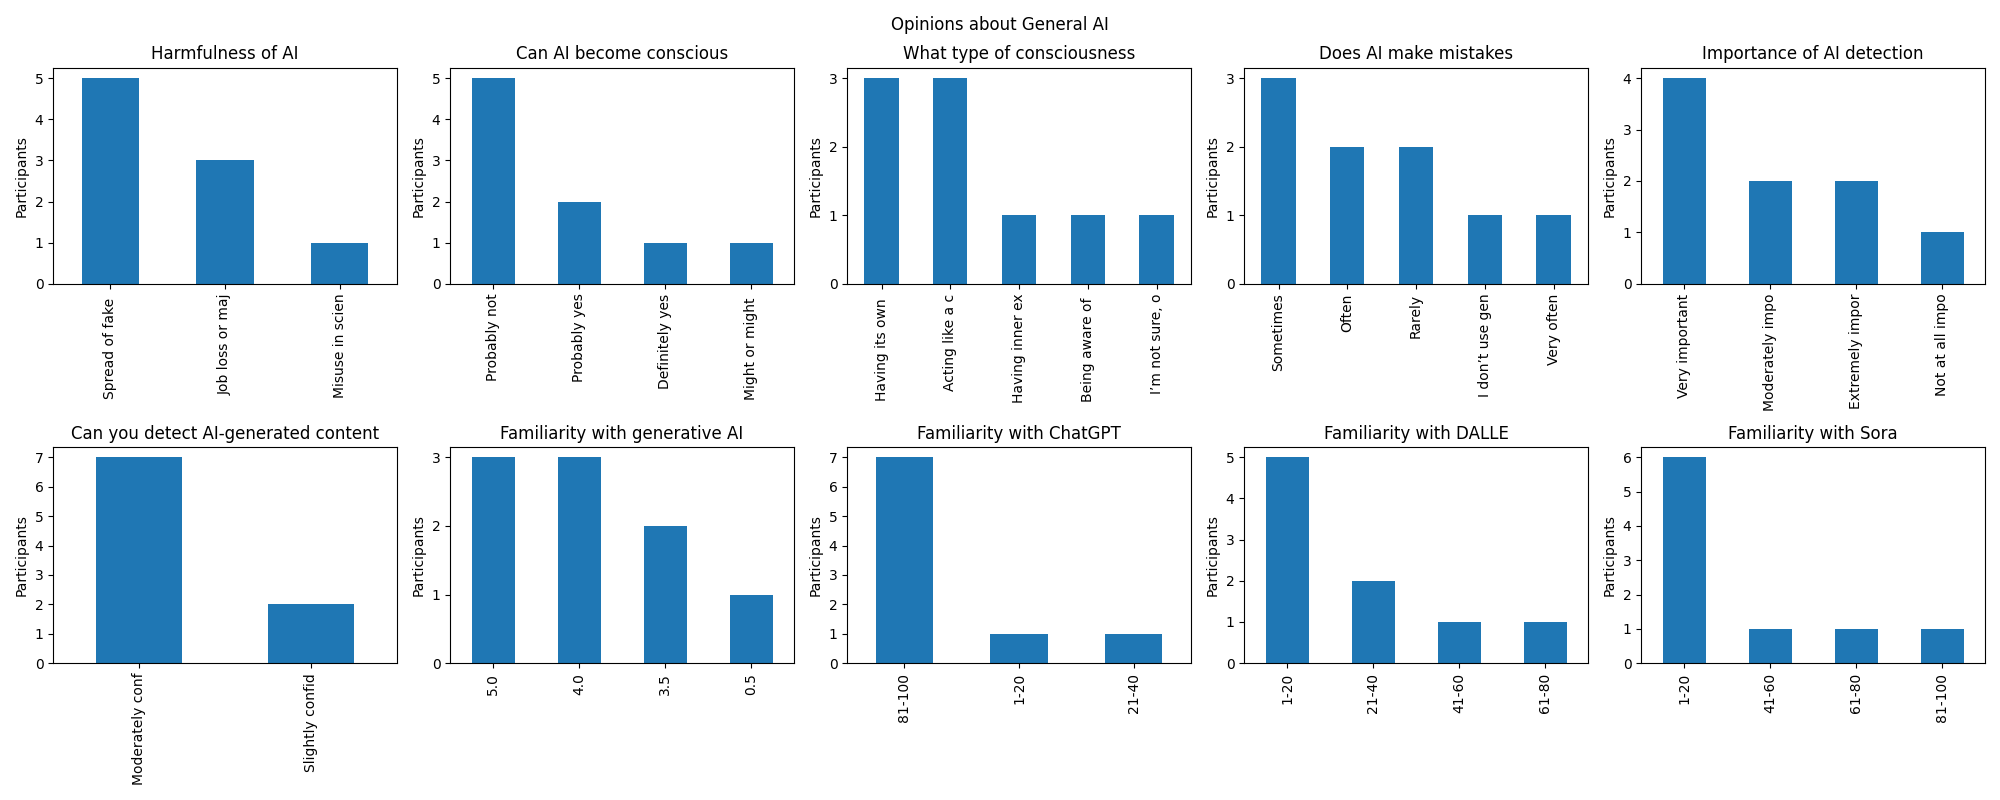
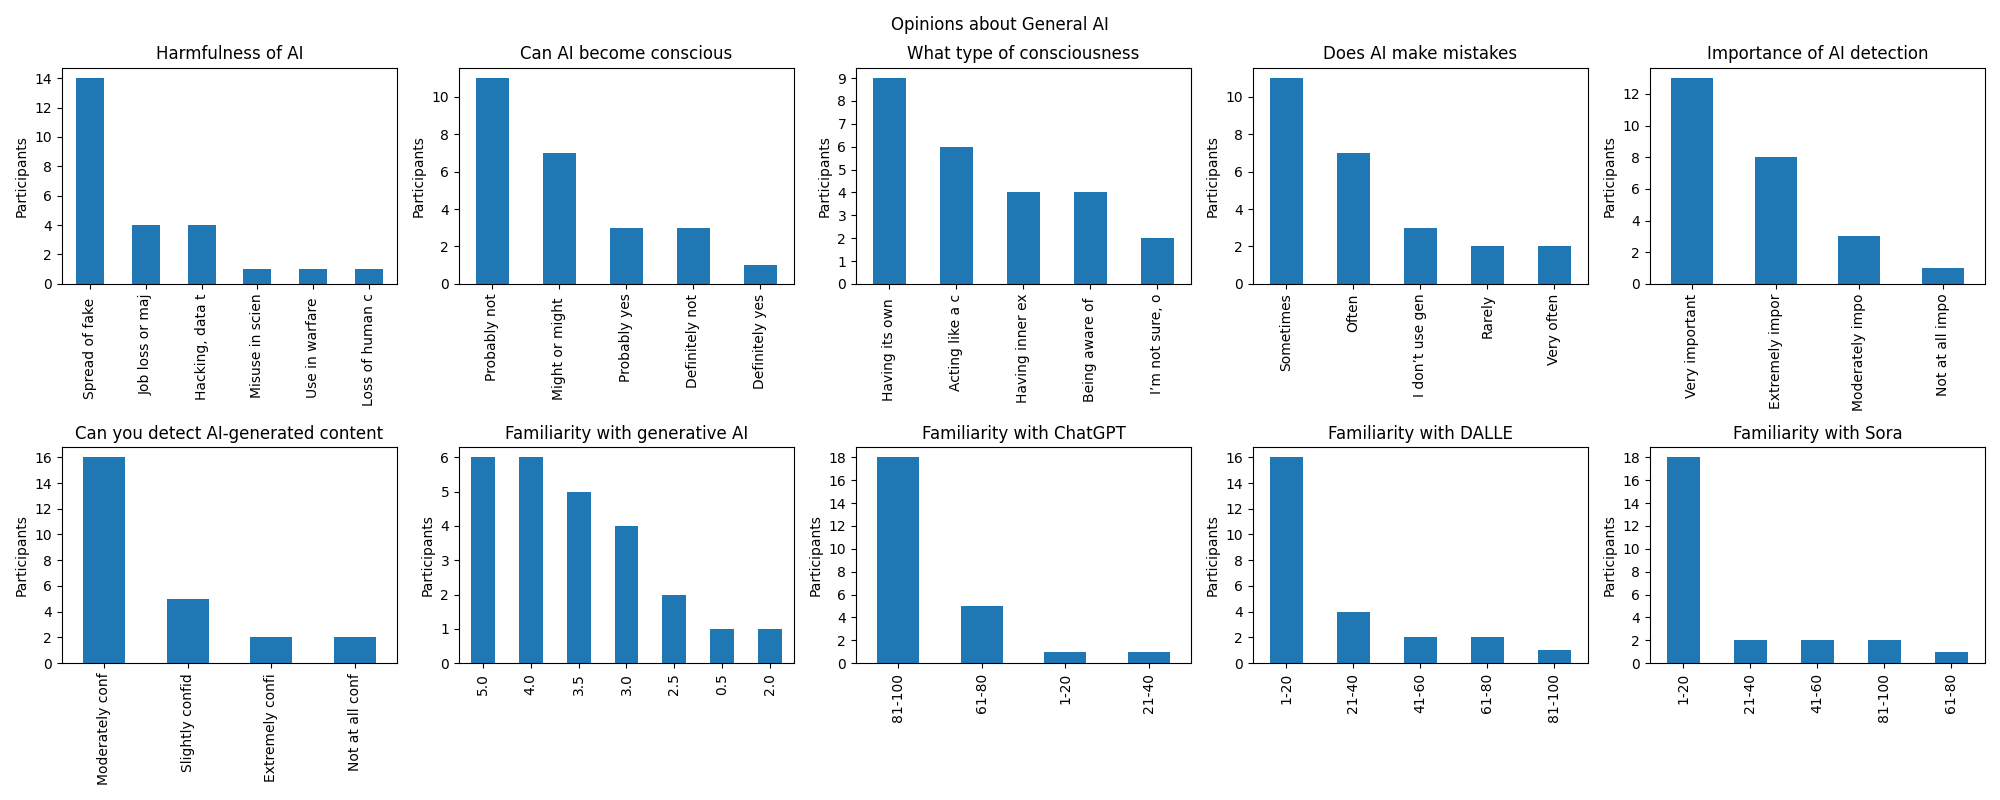
Update with new data file

diff --git a/pipeline.py b/pipeline.py
@@ -204,7 +204,7 @@ def categorize_open_ended_responses(df: pd.DataFrame, column: str):
     df[f"{column}_label"] = df[f"{column}_cluster"].map(cluster_labels).fillna("Empty")
 
 
-filename = "export_friends_4.csv"
+filename = "export_friends_5.csv"
 force_data_cleaning = False
 output_path = Path(f"cleaned_data/{filename}")
 if output_path.exists() and not force_data_cleaning:
